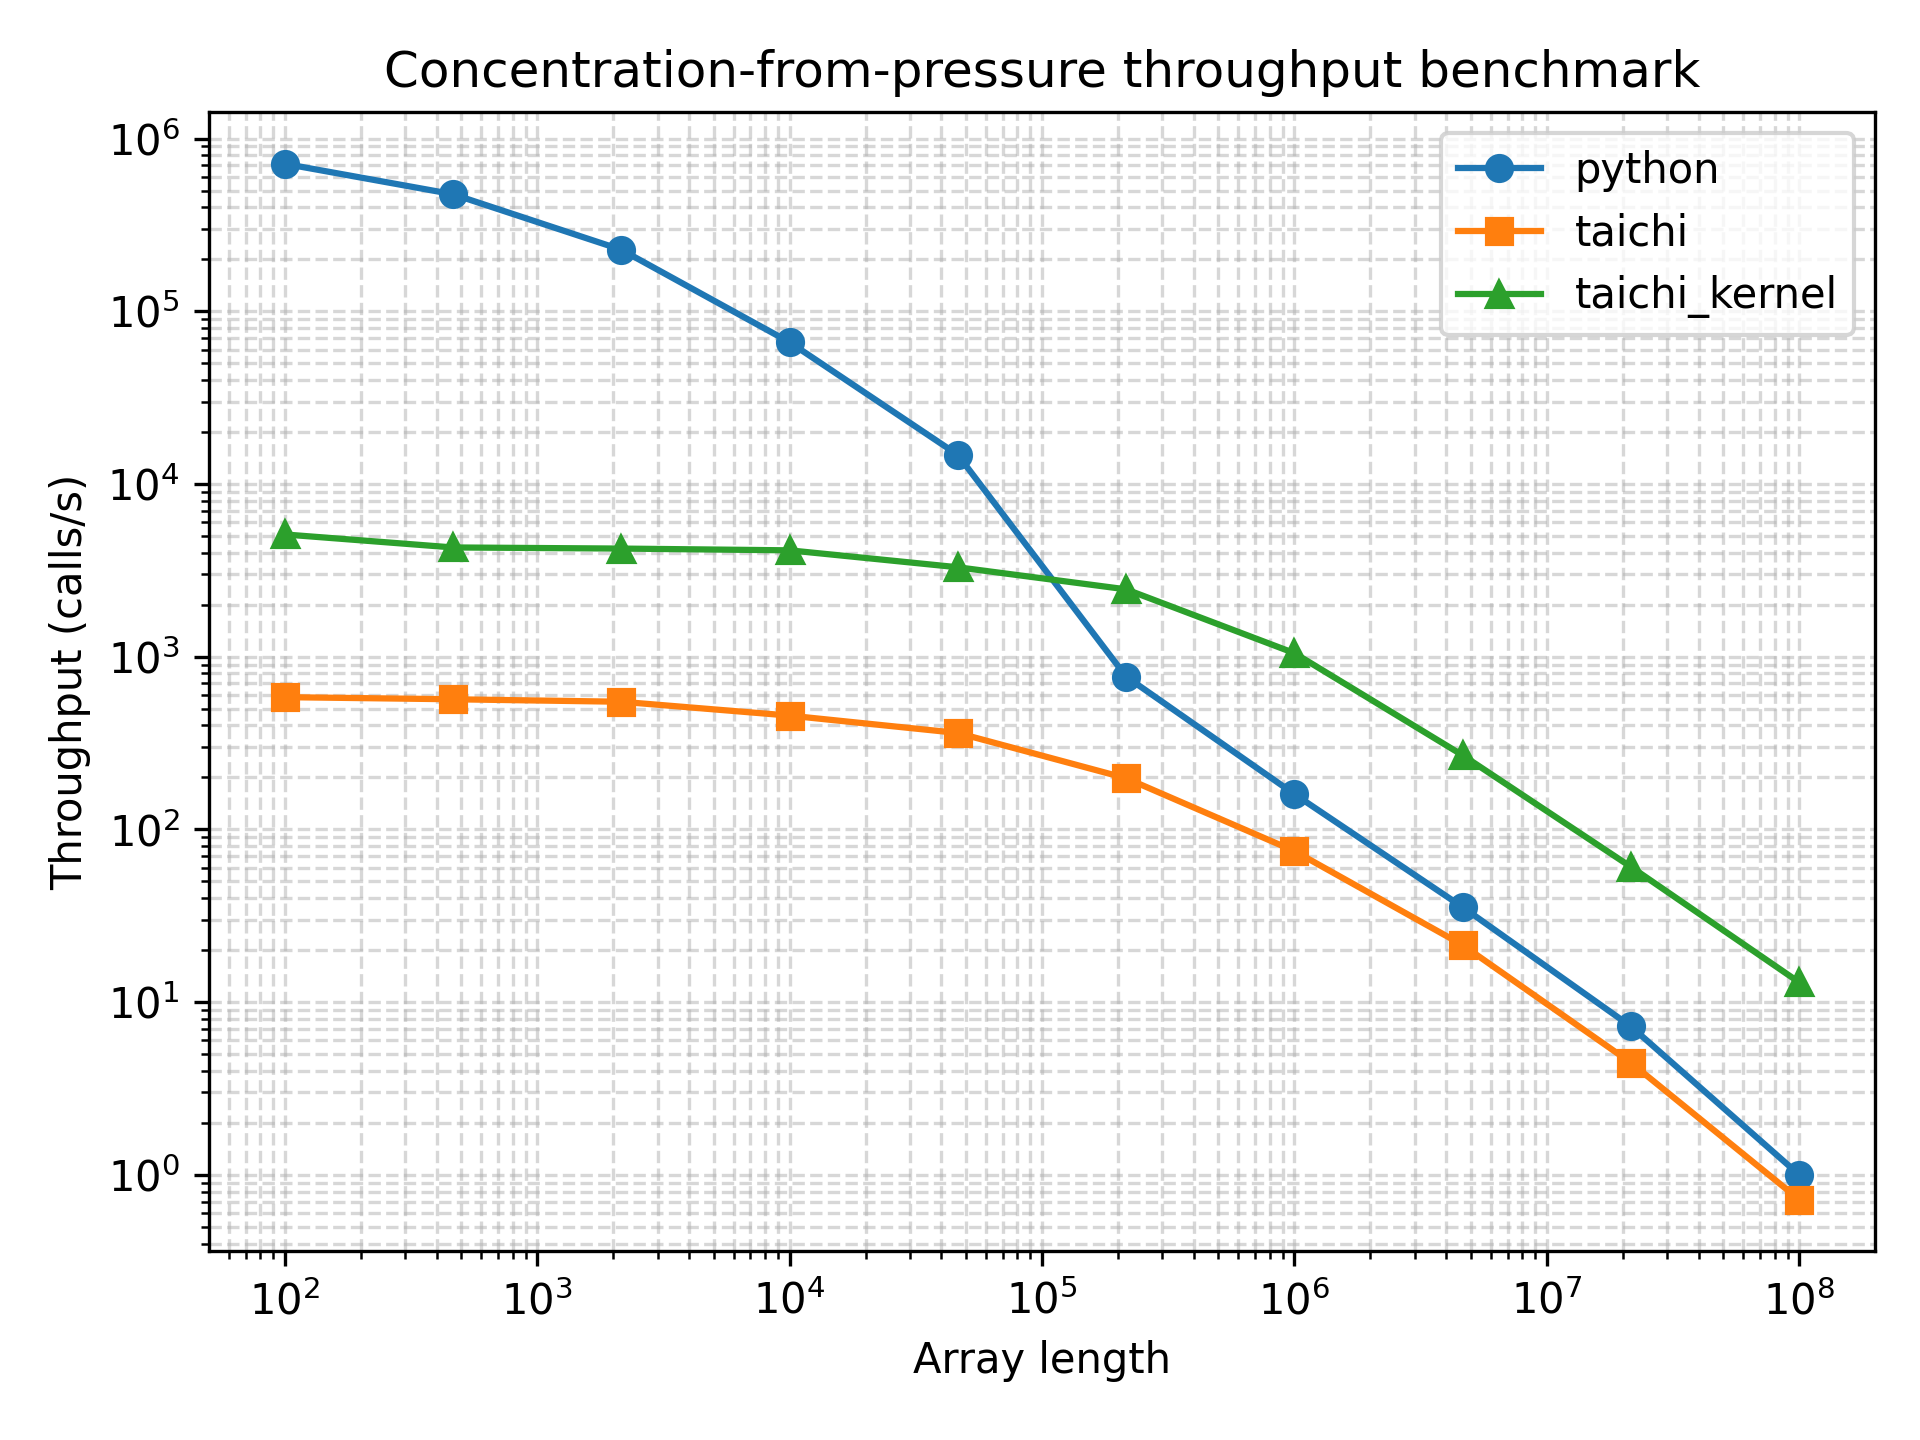
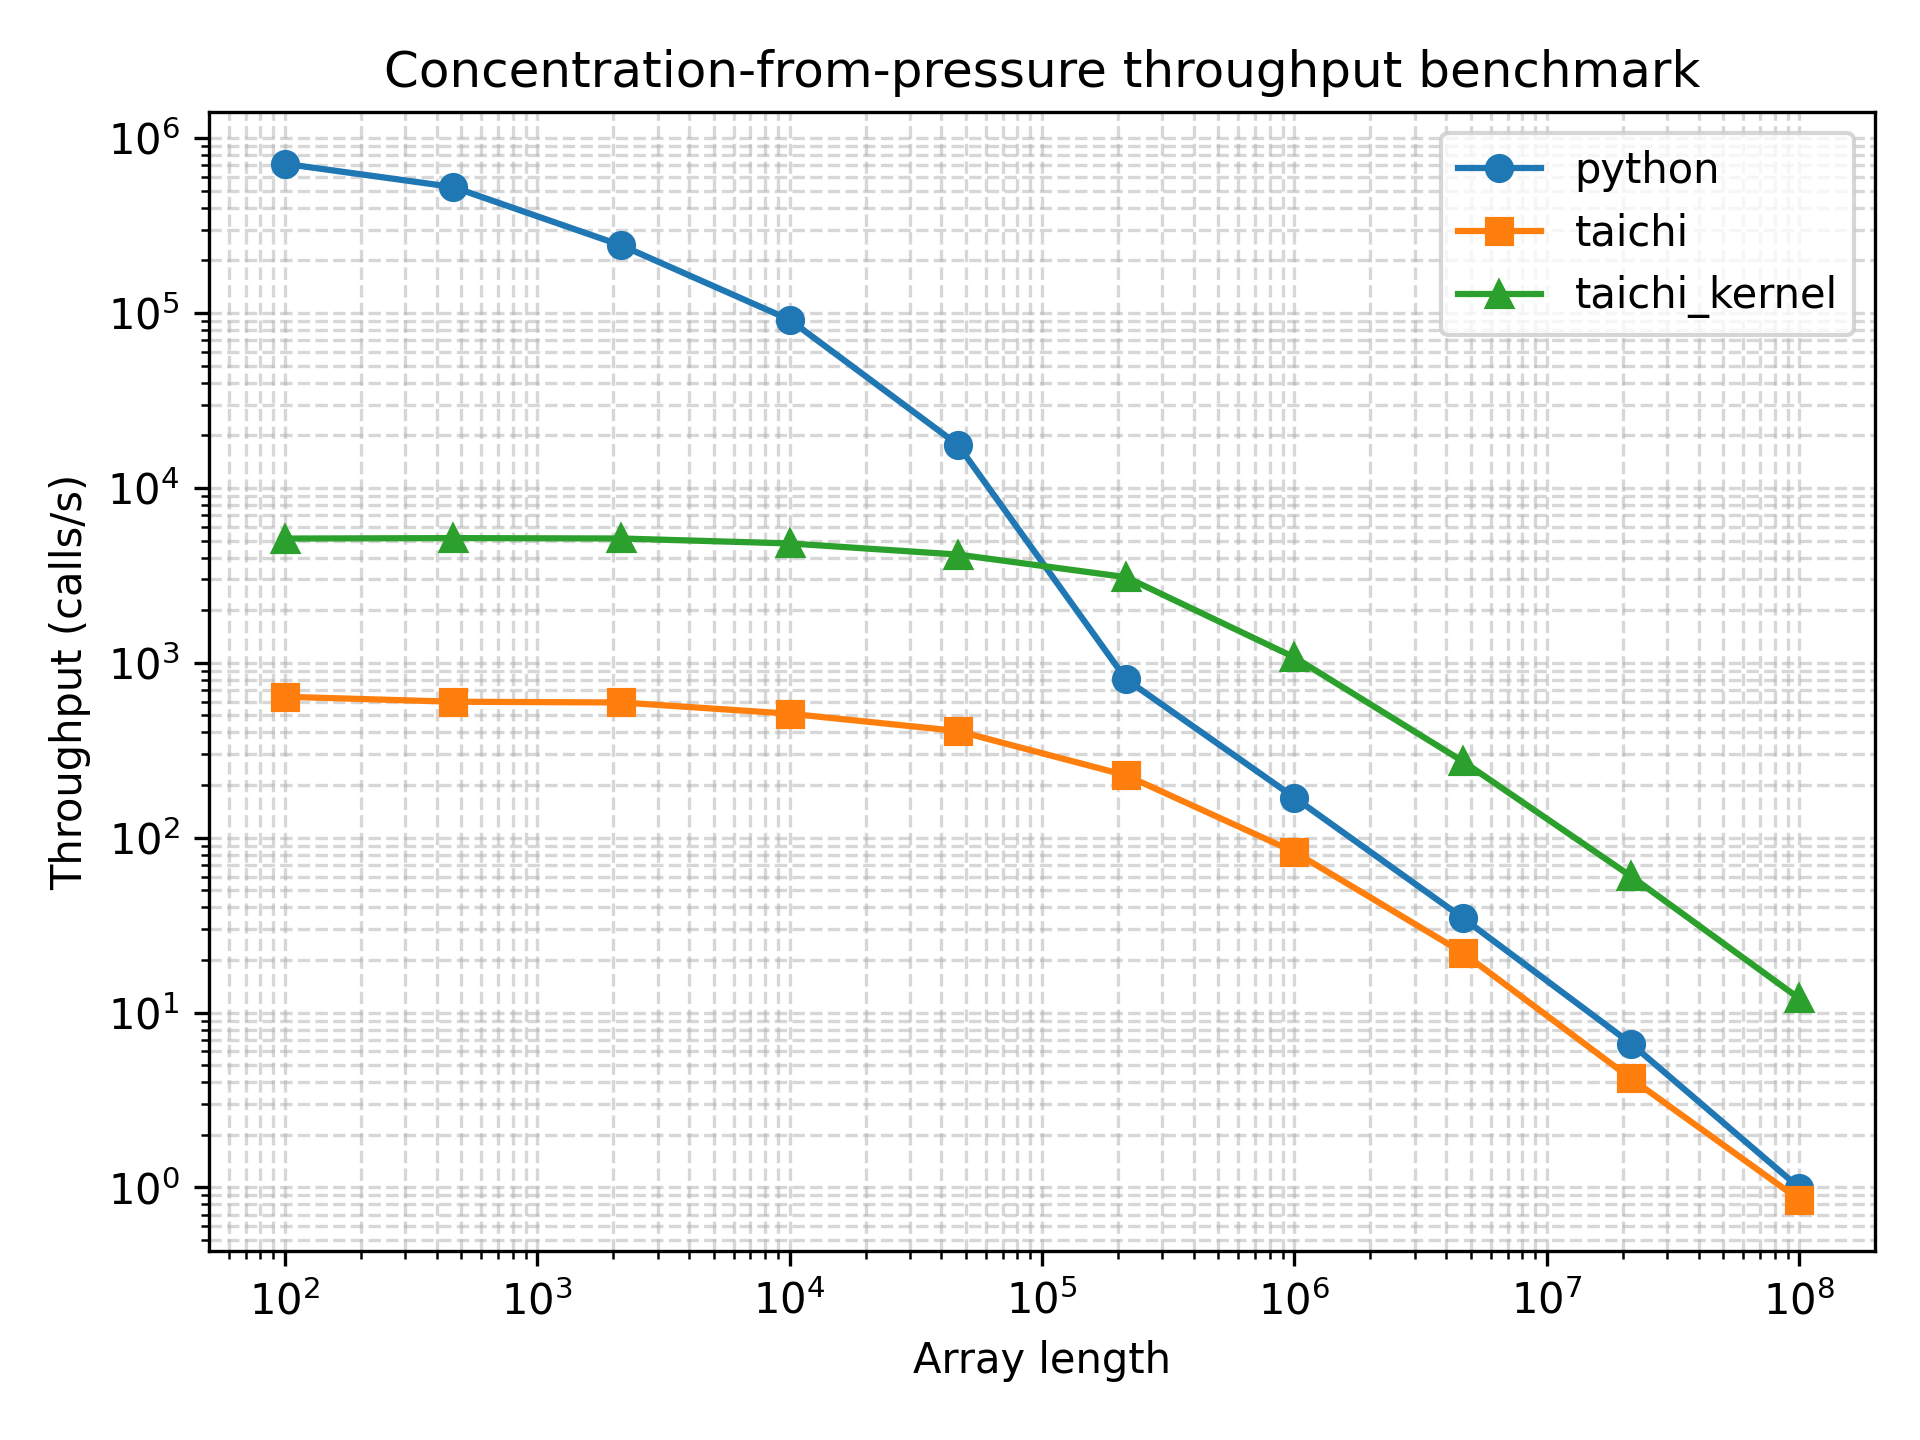
test run update

diff --git a/particula/backend/taichi/particles/tests/ti_representation_test.py b/particula/backend/taichi/particles/tests/ti_representation_test.py
@@ -44,6 +44,12 @@ class TestTiParticleRepresentation(unittest.TestCase):
         )
         cls.charge = np.zeros(5, dtype=np.float64)
 
+        ti_surface_strategy = TiSurfaceStrategyMolar(
+            surface_tension=np.array([0.072, 0.058, 0.045], dtype=np.float64),
+            density=cls.density,
+            molar_mass=np.array([0.018, 0.046, 0.058], dtype=np.float64),
+        )
+
         cls.py_obj = PyRep(
             ParticleResolvedSpeciatedMass(),
             ActivityIdealMass(),
@@ -56,19 +62,11 @@ class TestTiParticleRepresentation(unittest.TestCase):
         cls.ti_obj = TiRep(
             TiParticleResolvedSpeciatedMass(),
             TiActivityIdealMass(),
-            TiSurfaceStrategyMolar(),
+            ti_surface_strategy,
             cls.distribution,
             cls.density,
             cls.concentration,
             cls.charge,
-        )
-
-    # ───── name getters ──────────────────────────────────────────────────
-
-    def test_surface_name(self):
-        self.assertEqual(
-            self.py_obj.get_surface_name(),
-            self.ti_obj.get_surface_name(),
         )
 
     # ───── numeric parity checks ────────────────────────────────────────

diff --git a/particula/backend/taichi/dynamics/condensation/benchmark/condensation_isothermal_benchmark.py b/particula/backend/taichi/dynamics/condensation/benchmark/condensation_isothermal_benchmark.py
@@ -195,7 +195,7 @@ def make_python_step_callable(particle, gas, cond):
 
 if __name__ == "__main__":
     N_SPECIES = 10
-    PARTICLE_COUNTS = [10, 100, 1_000, 10_000, 50_000, 100_000]  # adjust/extend as desired
+    PARTICLE_COUNTS = np.logspace(1, 6, num=10, dtype=np.int64)  # 10^1 to 10^5 particles
 
     # build a single condensation object (species count is fixed)
     molar_mass_vec = np.linspace(0.018, 0.018 + 0.002 * (N_SPECIES - 1), N_SPECIES)
@@ -203,7 +203,7 @@ if __name__ == "__main__":
 
     # build a single Python-side CondensationIsothermal object
     condensation_py = PyCondensationIsothermal(
-        molar_mass=0.018,              # water
+        molar_mass=molar_mass_vec,
         diffusion_coefficient=2.0e-5,
         accommodation_coefficient=1.0,
     )
@@ -217,6 +217,7 @@ if __name__ == "__main__":
         stats_ti = get_function_benchmark(
             make_step_callable(particle, gas, condensation_ti),
             ops_per_call=1,
+            max_run_time_s=3.0,
         )
 
         # ----- Python objects & stats ---------------------------------------

diff --git a/particula/backend/taichi/dynamics/condensation/tests/ti_condensation_isothermal_test.py b/particula/backend/taichi/dynamics/condensation/tests/ti_condensation_isothermal_test.py
@@ -13,7 +13,7 @@ from particula.backend.taichi.particles.ti_activity_strategies import (
     ActivityKappaParameter,
 )
 from particula.backend.taichi.particles.ti_surface_strategies import (
-    SurfaceStrategyMolar,
+    TiSurfaceStrategyMolar,
 )
 from particula.backend.taichi.particles.ti_representation import (
     TiParticleRepresentation,
@@ -71,7 +71,7 @@ class TiCondensationIsothermalTest(unittest.TestCase):
             molar_mass=np.array([0.018, 0.050, 0.040]),
             water_index=0,
         )
-        surface = SurfaceStrategyMolar(
+        surface = TiSurfaceStrategyMolar(
             surface_tension=np.full(self.n_species, 0.072),
             density=self.densities,
             molar_mass=np.array([0.018, 0.050, 0.040]),

diff --git a/particula/backend/taichi/particles/ti_surface_strategies.py b/particula/backend/taichi/particles/ti_surface_strategies.py
@@ -27,6 +27,8 @@ import numpy as np
 from particula.backend.taichi.particles.properties.ti_kelvin_effect_module import (
     kget_kelvin_radius,
     kget_kelvin_term,
+    fget_kelvin_term,
+    fget_kelvin_radius,
 )
 
 from particula.backend.taichi.util.ti_field_helper import FieldIO

diff --git a/particula/backend/taichi/util/__init__.py b/particula/backend/taichi/util/__init__.py
@@ -2,6 +2,6 @@ from .ti_reduced_quantity import (
     ti_get_reduced_value,
     ti_get_reduced_self_broadcast,
 )
-from .ti_field_io import (
+from .ti_field_helper import (
     FieldIO,
 )
